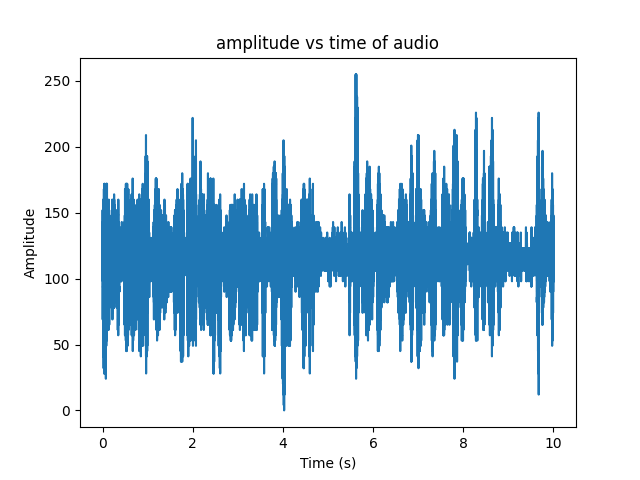
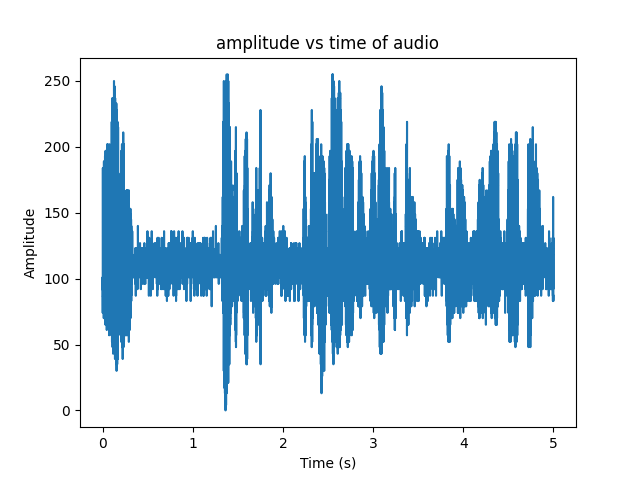
update python
give distance trigger option

diff --git a/ProjectTask1/PythonScript.py b/ProjectTask1/PythonScript.py
@@ -3,6 +3,7 @@ import serial.tools.list_ports
 import matplotlib.pyplot as plt
 import numpy as np
 import wave
+import time
 
 devices = serial.tools.list_ports.comports()
 
@@ -14,12 +15,36 @@ ser = serial.Serial("COM8", 921600)
 my_list = []
 
 SAMPLE_RATE = 22050
-clip_length = int(input("Enter the clip length: "))
+US_sensor = input("do you want distance trigger mode (Y/N): ")
+if US_sensor == "Y":
+    US_sensor = 1
+    
+else:
+    US_sensor = 0
 
-for i in range(clip_length * SAMPLE_RATE):
+ser.write(US_sensor.encode())
+if US_sensor == 1:
+
     byte = ser.read(1)
-    bit = byte[0]
-    my_list.append(bit)
+    timeout = False
+    while(timeout == False):
+        bit = byte[0]
+        my_list.append(bit)
+        current_time = time.time()
+        byte = ser.read(1)
+        if (time.time()-current_time > 0.5):
+            timeout = True
+
+
+else:
+
+
+    clip_length = int(input("Enter the clip length: "))
+    for i in range(clip_length * SAMPLE_RATE):
+        byte = ser.read(1)
+        bit = byte[0]
+        my_list.append(bit)
+
 
 data = np.array(my_list)
 print(len(data))
@@ -33,15 +58,17 @@ with wave.open('Project_Task_1.wav', 'wb') as wf:
     wf.setsampwidth(1)
     wf.setframerate(SAMPLE_RATE)
     wf.writeframes(data.tobytes())
-array = np.arange(0,clip_length,1/SAMPLE_RATE)
-plt.plot(array,data)
+array = np.arange(0, clip_length, 1 / SAMPLE_RATE)
+plt.plot(array, data)
 plt.ylabel('Amplitude')
 plt.xlabel('Time (s)')
 plt.title('amplitude vs time of audio')
 plt.savefig('Project_Task_1.png')
 
-csv = np.insert(array,0,SAMPLE_RATE)
-np.savetxt('Project_Task_1.csv',csv,delimiter=',')
+csv = np.insert(array, 0, SAMPLE_RATE)
+np.savetxt('Project_Task_1.csv', csv, delimiter=',')
 
 plt.show()
 print("done")
+
+